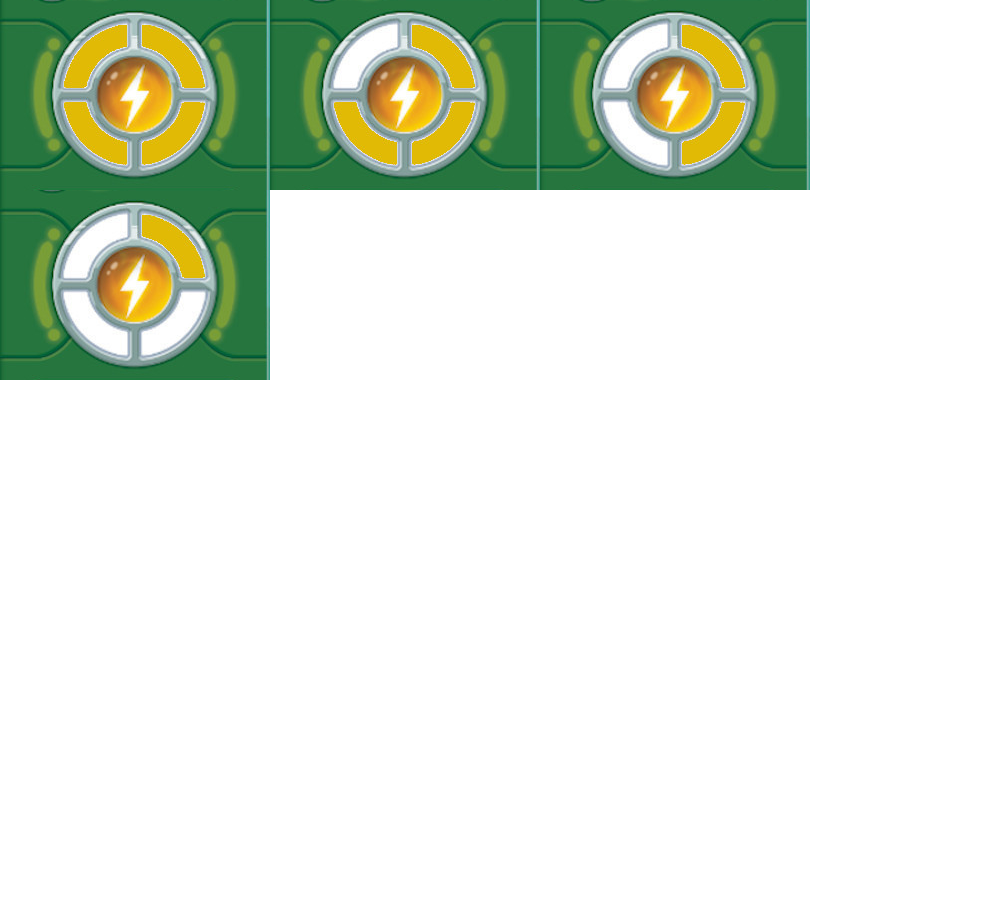
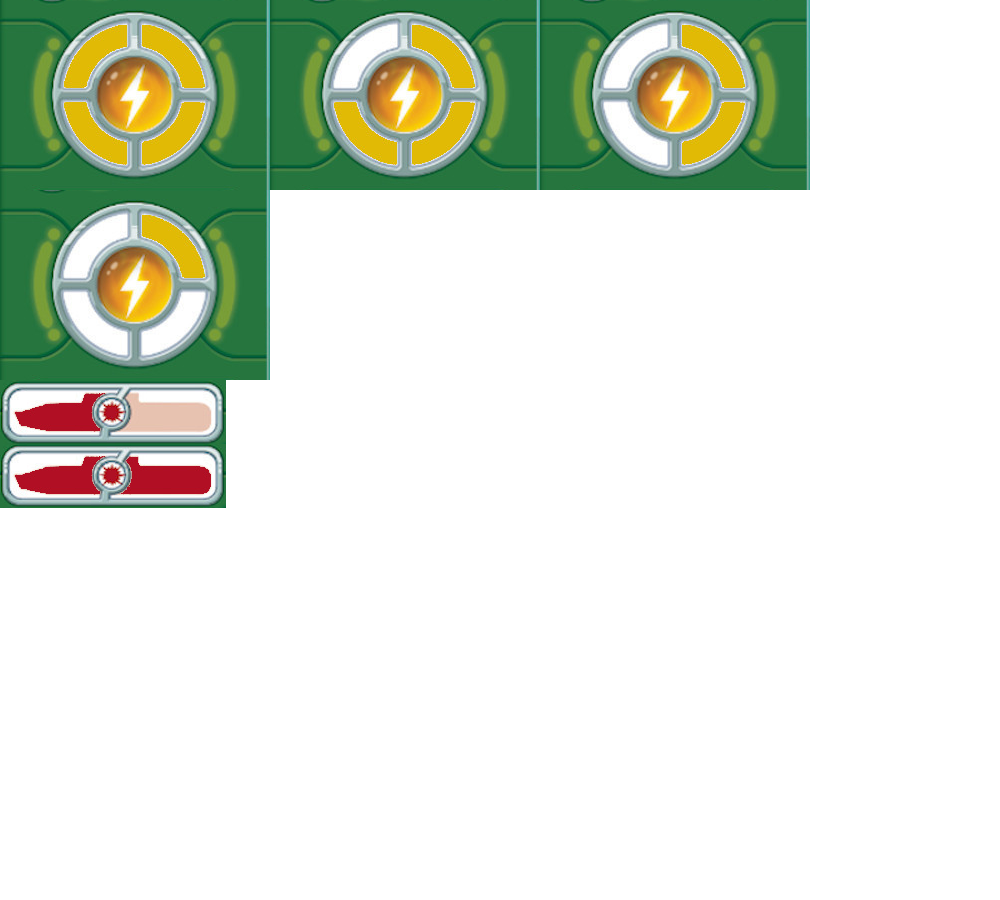
actualisation de la vie en cours

Changed region(s): [[0.0, 0.4044, 0.248, 0.5911]]

diff --git a/controller/control_battlefield.c b/controller/control_battlefield.c
@@ -68,6 +68,7 @@ void controller_battlefield_IA(View_elements * app,Playground * pg,enum Carte ch
                         //missile
                         if (enough_energie(pg, pg->actif, MIS)) {
                             print_message(app, "choississez la case ou tirer");
+                            show_SM(app,pg->J1->S_M->ligne, pg->J1->S_M->colonne);
                             tir=1;
                             while (tir==1){
                                 SDL_WaitEvent(&event);
@@ -112,6 +113,7 @@ void controller_battlefield_IA(View_elements * app,Playground * pg,enum Carte ch
                         //surface
                         if (action(pg, pg->actif, SURF, 0, 0, 0, message)) {
                             clean_map(app);
+                            show_energie(app,pg->J1->energie);
                             show_SM(app,pg->J1->S_M->ligne, pg->J1->S_M->colonne);
                         }
                         print_message(app, message);

diff --git a/view/Battlefield.c b/view/Battlefield.c
@@ -399,5 +399,28 @@ void show_energie(View_elements * app,int energie){
     SDL_RenderPresent(app->rRenderer);
 }
 
+void show_vie(View_elements * app, int vieA,int vieNA){
+
+    SDL_Rect P1V={0,380,226,64};
+    SDL_Rect P0V={0,444,226,64};
+    SDL_Rect Pos1={741,78,226,64};
+    SDL_Rect Pos2={741,645,226,64};
+    SDL_SetRenderTarget(app->rRenderer,app->VBattlefield->Battlefield_current);
+    switch (vieA) {
+        case 0:
+
+            break;
+        case 1:
+
+            break;
+
+        case 2:
+
+            break;
+
+
+    }
+}
+
 
 

diff --git a/view/main_view.h b/view/main_view.h
@@ -246,6 +246,15 @@ void trace_deplacement_total(View_elements * app, int direction[],int nbdir,int 
  */
 void show_energie(View_elements * app,int energie);
 
+/**
+ * \fn void show_vie(View_elements * app, int vieJ1,int vieJ2)
+ * met à jour le niveau de vie affiché
+ * @param app Structure qui gère la vue
+ * @param vieA Points de vie du Joueur Actif
+ * @param vieNA Points de vie du Joueur Non-Actif
+ */
+void show_vie(View_elements * app, int vieA,int vieNA);
+
 // Fonctions pour le Menu
 
 /**

diff --git a/view/main_view.c b/view/main_view.c
@@ -105,6 +105,7 @@ void free_view(View_elements *app){
     SDL_DestroyTexture(app->VBattlefield->Sous_marin);
     SDL_DestroyTexture(app->VBattlefield->Battlefield_current);
     SDL_DestroyTexture(app->VBattlefield->Battlefield_blank);
+    SDL_DestroyTexture(app->VBattlefield->Energie);
     IMG_Quit();
     TTF_Quit();
     while (Mix_Init(0)){

diff --git a/model/joueur.c b/model/joueur.c
@@ -426,6 +426,7 @@ void surface(Playground *pg,enum Actif actif,char message[]){
     j->nbpath=0;
     j->S_M->start[0]=j->S_M->ligne;
     j->S_M->start[1]=j->S_M->colonne;
+    j->calqueJ[j->S_M->ligne][j->S_M->colonne]=1;
     strcpy(message,"Nous faisons surface");
 
 }
